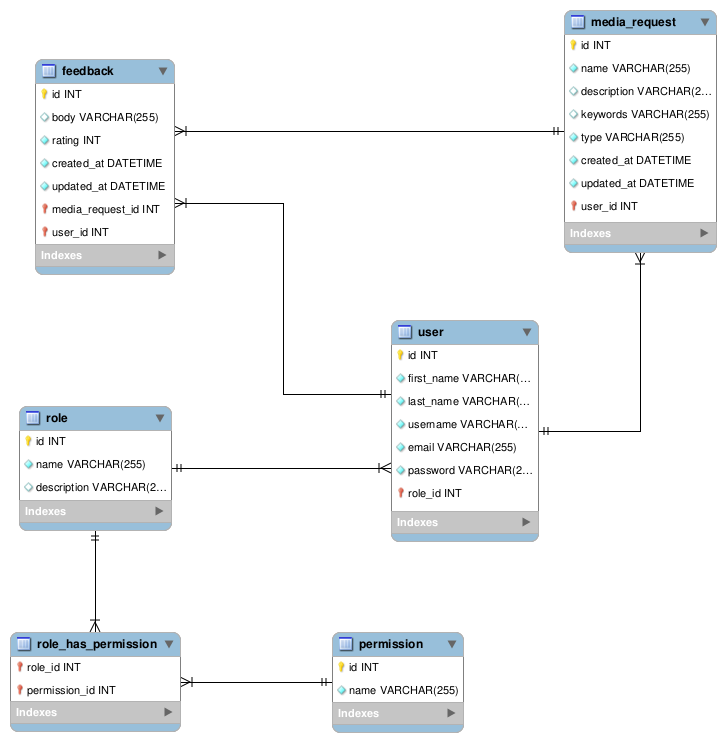
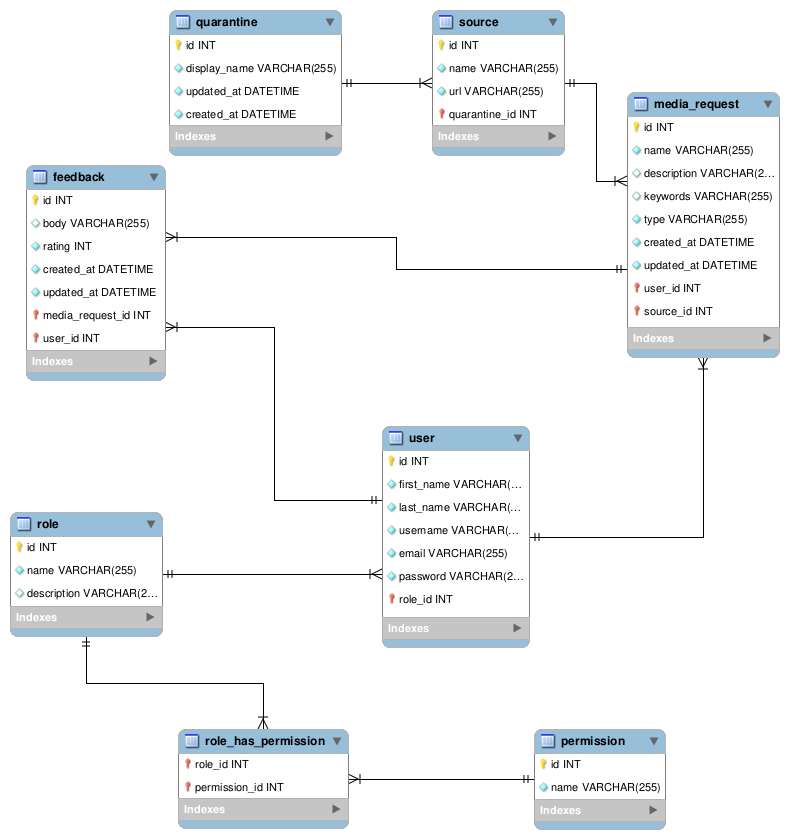
Added more entities and description

diff --git a/docs/design/README.md b/docs/design/README.md
@@ -37,7 +37,10 @@
     Permission -d-* Permission.name
     Permission -d-* Permission.id
 
-    Role "0.*" -d- "0.*" Permission
+    entity RoleHasPermission
+
+    Role "1.1" -d- "0.*" RoleHasPermission
+    Permission "1.1" -u- "0.*" RoleHasPermission
 
     entity MediaRequest
     entity MediaRequest.id #FFFFFF
@@ -57,6 +60,30 @@
     MediaRequest -u-* MediaRequest.createdAt
 
     User "1.1" -u- "0.*" MediaRequest
+
+    entity Source
+    entity Source.id #FFFFFF
+    entity Source.name #FFFFFF
+    entity Source.url #FFFFFF
+
+    Source.id -u-* Source
+    Source.name -u-* Source
+    Source.url -u-* Source
+
+    Source "1.1" -u- "0.*" MediaRequest
+
+    entity Quarantine
+    entity Quarantine.id #FFFFFF
+    entity Quarantine.displayName #FFFFFF
+    entity Quarantine.updatedAt #FFFFFF
+    entity Quarantine.createdAt #FFFFFF
+
+    Quarantine.id -u-* Quarantine
+    Quarantine.displayName -u-* Quarantine
+    Quarantine.updatedAt -u-* Quarantine
+    Quarantine.createdAt -u-* Quarantine
+
+    Quarantine "1.1" -u- "0.*" Source
 
     entity Feedback
     entity Feedback.id #FFFFFF
@@ -80,53 +107,79 @@
 
 @startuml
 
-    entity User {
-        id: Int
-        username: Text
-        firstName: Text
-        lastName: Text
-        email: Text
-        password: Text
+    namespace AccountManagement {
+        entity User <<ENTITY>> {
+            id: Int
+            username: Text
+            firstName: Text
+            lastName: Text
+            email: Text
+            password: Text
+        }
     }
 
-    entity Role {
-        id: Int
-        name: Text
-        description: Text
+    namespace AccessPolicy {
+        entity Role <<ENTITY>> #ffff00 {
+            id: Int
+            name: Text
+            description: Text
+        }
+
+        object UserRole #ffffff
+        object TechnicalExpertRole #ffffff
+
+        entity Permission <<ENTITY>> {
+            id: Int
+            name: Text
+        }
+
+        entity RoleHasPermission <<ENTITY>> {
+            roleId: Int
+            permissionId: Int
+        }
     }
 
-    entity Permission {
-        id: Int
-        name: Text
-    }
+    namespace MediaContentManagement {
+        entity MediaRequest <<ENTITY>> {
+            id: Int
+            name: Text
+            type: Text
+            keywords: Text
+            description: Text
+            updatedAt: Datetime
+            createdAt: Datetime
+        }
 
-    entity MediaRequest {
-        id: Int
-        name: Text
-        type: Text
-        keywords: Text
-        description: Text
-        updatedAt: Datetime
-        createdAt: Datetime
-    }
+        entity Feedback <<ENTITY>> {
+            id: Int
+            body: Text
+            rating: Float
+            updatedAt: Datetime
+            createdAt: Datetime
+        }
 
-    entity Feedback {
-        id: Int
-        body: Text
-        rating: Float
-        updatedAt: Datetime
-        createdAt: Datetime
-    }
+        entity Source <<ENTITY>> {
+            id: Int
+            name: Text
+            url: Text
+        }
 
-    entity RoleHasPermission {
-        roleId: Int
-        permissionId: Int
+        entity Quarantine <<ENTITY>> {
+            id: Int
+            displayName: Text
+            updatedAt: DateTime
+            createdAt: DateTime
+        }
     }
 
     User "0.*" -d- "1.1" Role
     User "1.1" -u- "0.*" MediaRequest
     User "1.1" -u- "0.*" Feedback
+    UserRole .u.> Role
+    TechnicalExpertRole .u.> Role
     MediaRequest "1.1" -r- "0.*" Feedback
+    Source "1.1" -r- "0.*" MediaRequest
+    Quarantine "1.1" -r- "0.*" Source
     Role "1.1" -d "0.*" RoleHasPermission
     Permission "1.1" -u "0.*" RoleHasPermission
 
